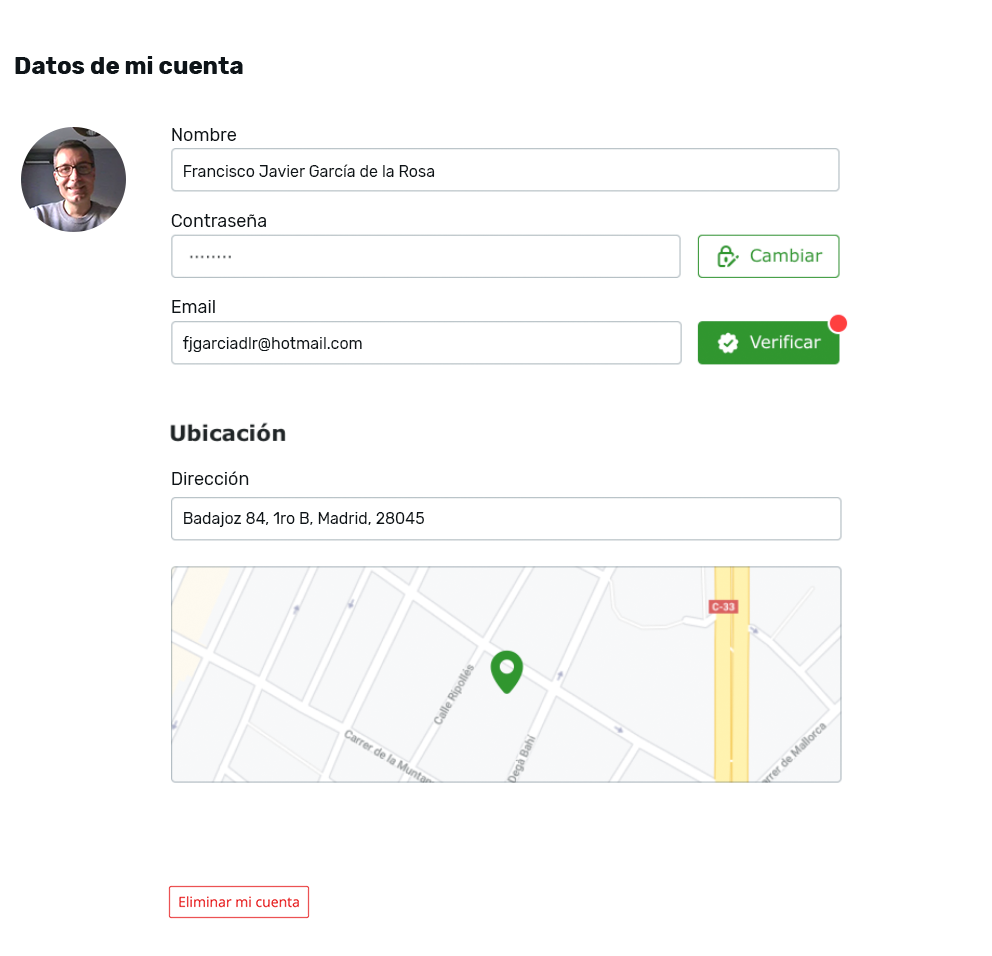
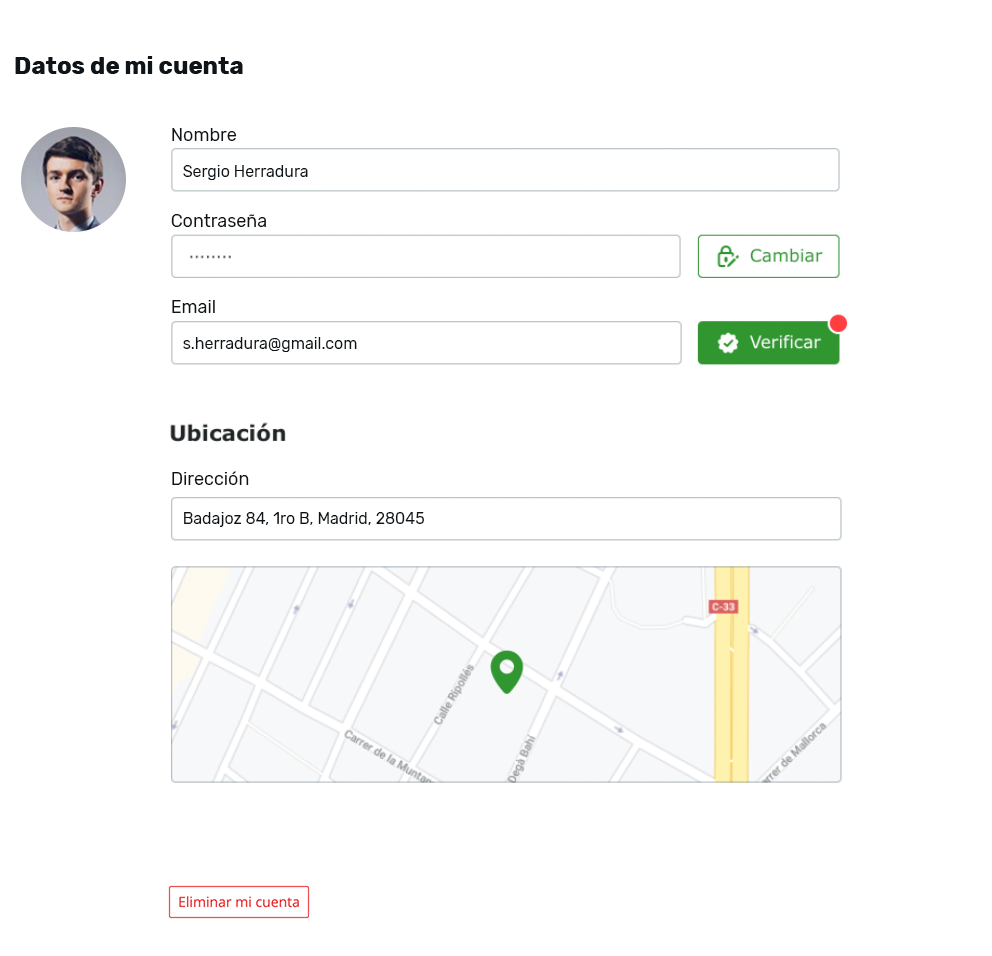
sergioherradura

Changed region(s): [[0.0, 0.1213, 0.125, 0.2427], [0.1875, 0.1517, 0.4375, 0.182], [0.1875, 0.3337, 0.3438, 0.364]]

diff --git a/components/navbar-round3.js b/components/navbar-round3.js
@@ -84,7 +84,7 @@ export default function NavBar() {
           <ul>
             <MenuItem
               avatar
-              label="fjgarciadlr@hotmail.com"
+              label="s.herradura@gmail.com"
               onClickEnabled
               theFunction={goToMyAccount}
               isSubMenu
